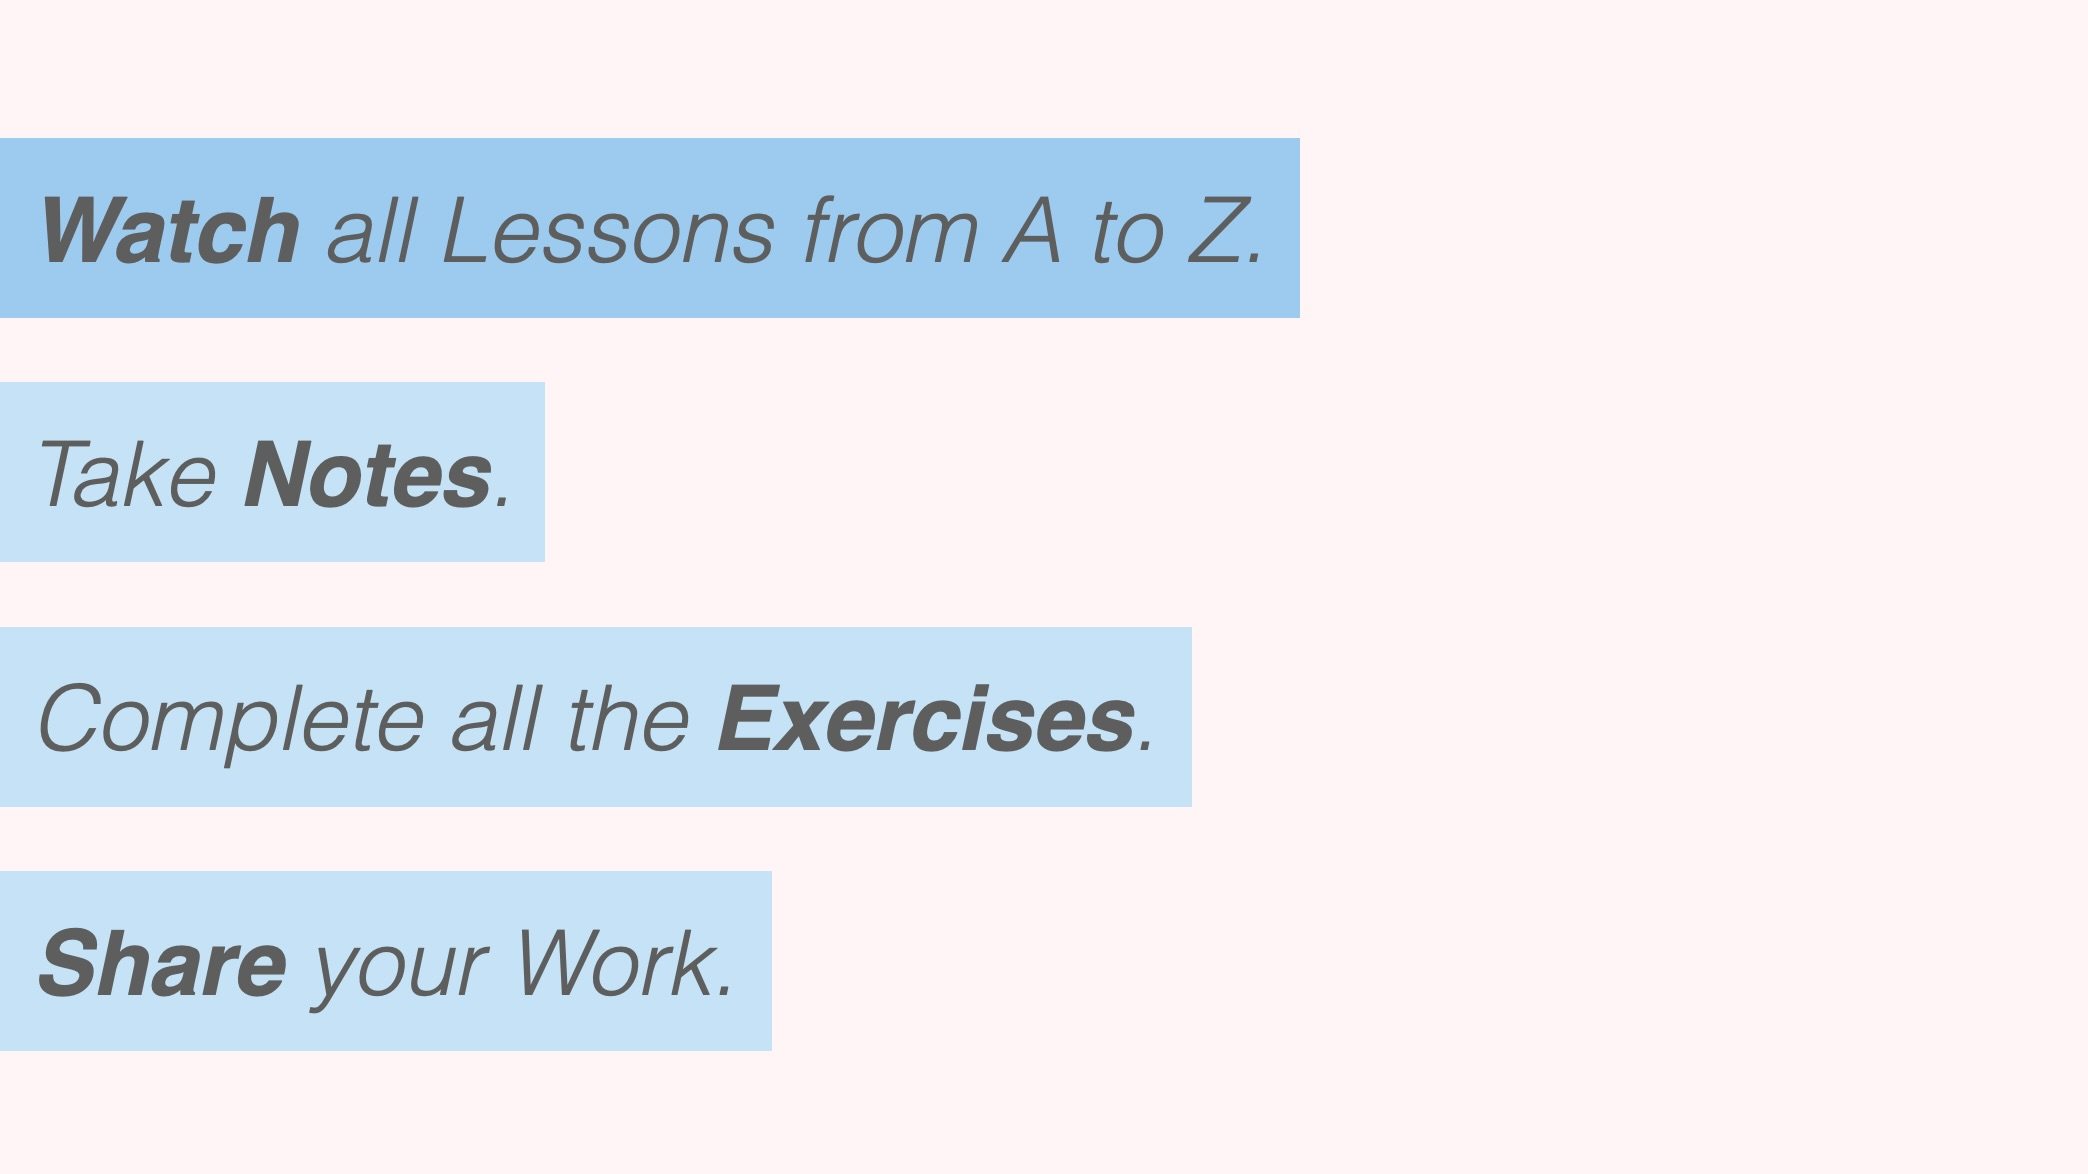
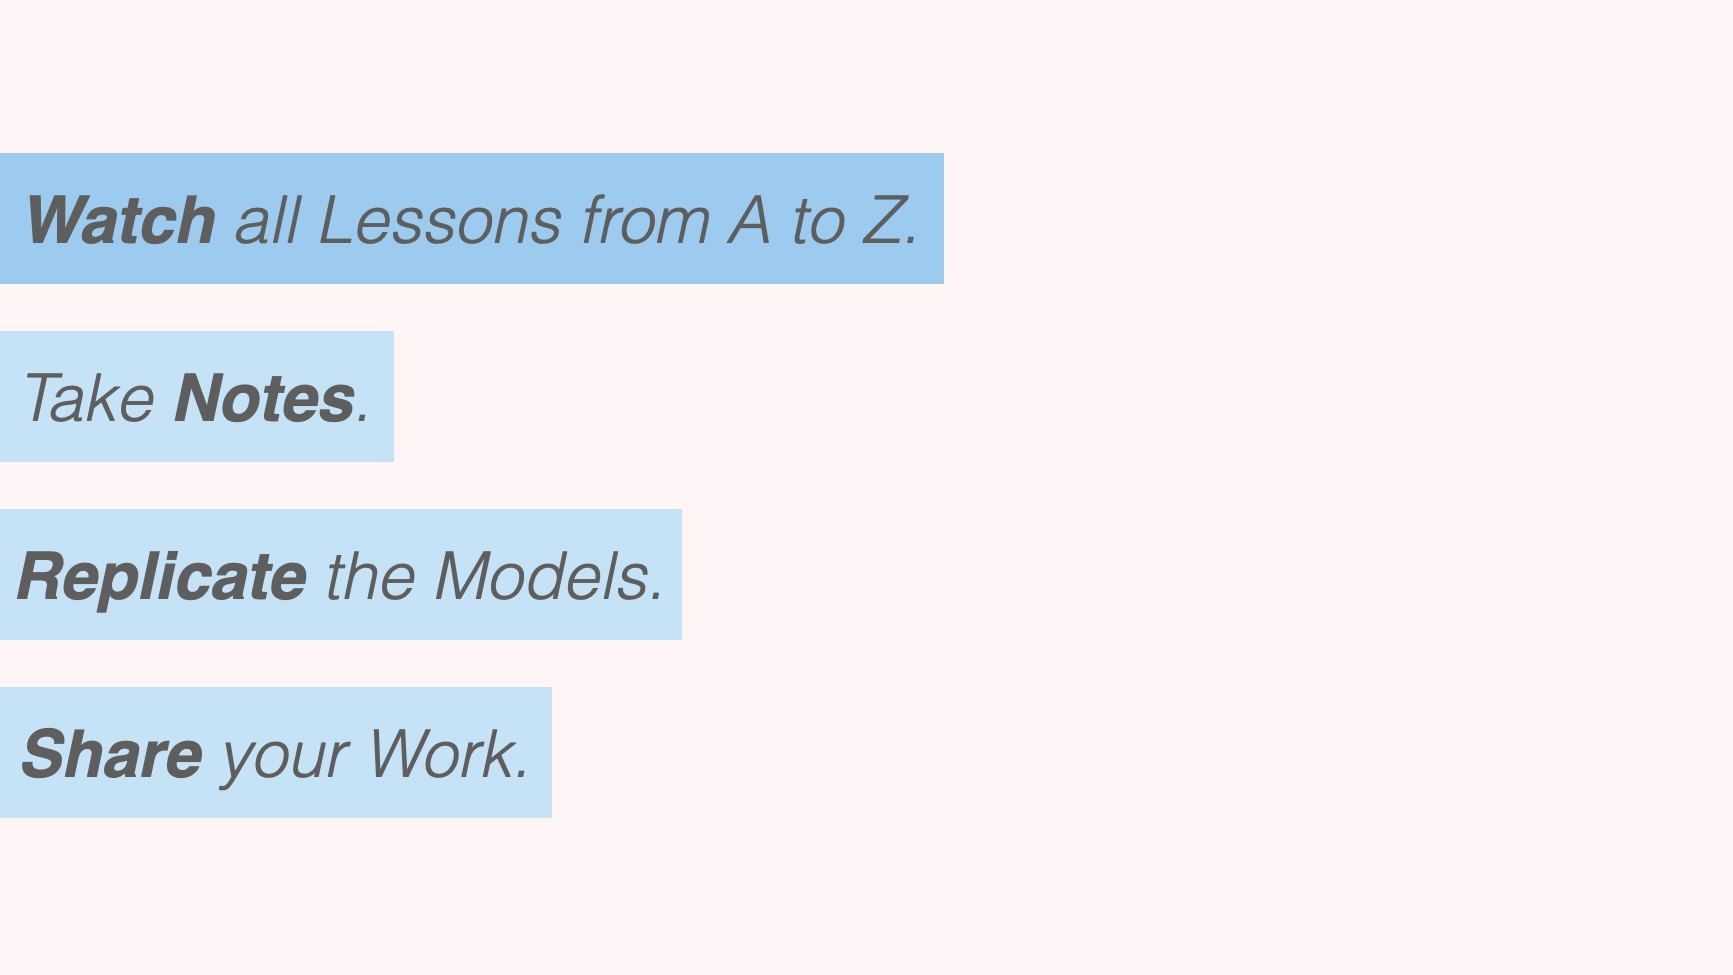
Add cover descriptions and other content modified..

Changed region(s): [[0.0, 0.5231, 0.592, 0.8923], [0.0, 0.0923, 0.6232, 0.4923]]

diff --git a/src/data/covers.ts b/src/data/covers.ts
@@ -61,38 +61,38 @@ export default [
     author: "― Jensen Huang",
     image: "src/assets/naushika.jpg",
     title: "Nausicaä from Nausicaä of the Valley of the Wind (1984) by books_baking_broadway",
-    description: "The left character is a Non-Animated Version Of Studio Ghibli Character - Naushika, and it was generated by an AI model."
+    description: "The image on the left portrays a non-animated, lifelike version of Nausicaä, the Studio Ghibli character from *Nausicaä of the Valley of the Wind* (1984), generated by an AI model. Using advanced computer vision techniques like image synthesis, AI can transform animated characters into realistic forms by learning from vast datasets of real-world images and animation styles. This showcases how AI-driven tools, such as GANs, are able to reinterpret 2D animations into photorealistic depictions, highlighting the potential of AI in expanding the ways we visualize and engage with animated media."
   },
   { id: 8,
     name: "Chapter 8: A Vision Transformer Model",
     quote: "When eyes were first developed in animals, suddenly animal life becomes proactive.",
     author: "― Fei-Fei Li",
     image: "src/assets/patch_embedding.jpeg",
-    title: "Nausicaä from Nausicaä of the Valley of the Wind (1984) by books_baking_broadway",
-    description: "The left character is a Non-Animated Version Of Studio Ghibli Character - Naushika, and it was generated by an AI model."
+    title: "AN IMAGE IS WORTH 16X16 WORDS",
+    description: "This image illustrates the patch embedding process in a Vision Transformer (ViT) model, which we’ll be constructing in this chapter. As the title suggests, ‘An Image is Worth 16x16 Words,’ we treat the cat image as a series of 16x16 pixel patches, similar to how words are processed in natural language models. These patches are then fed into a Transformer encoder, which learns to recognize patterns and features in the image, enabling the model to understand and classify visual data just like it would with sequential text data."
   },
   { id: 9,
     name: "Chapter 9: The Maths Behind (IV)",
     quote: "If you value intelligence above all other human qualities, you're gonna have a bad time.",
     author: "― Ilya Sutskever",
     image: "src/assets/mha.jpeg",
-    title: "Nausicaä from Nausicaä of the Valley of the Wind (1984) by books_baking_broadway",
-    description: "The left character is a Non-Animated Version Of Studio Ghibli Character - Naushika, and it was generated by an AI model."
+    title: "Multi-Head Attention",
+    description: "Multi-Head Attention is a core component of the Transformer architecture, and it plays a crucial role in its ability to capture complex relationships within data. Multi-Head Attention provides the model with a more nuanced understanding of the input, making the Transformer architecture powerful for both sequential data (text) and spatial data (images, through Vision Transformers)."
   },
   { id: 10,
     name: "Chapter 10: A Language Translation Model",
     quote: "AI will be the best or worst thing ever for humanity.",
     author: "― Elon Musk",
     image: "src/assets/languages.webp",
-    title: "Nausicaä from Nausicaä of the Valley of the Wind (1984) by books_baking_broadway",
-    description: "The left character is a Non-Animated Version Of Studio Ghibli Character - Naushika, and it was generated by an AI model."
+    title: "Natural Languages",
+    description: "This vibrant image beautifully represents the diversity of human natural languages, showcasing the word “Hello” in many different languages and scripts, such as English, Spanish, Japanese, Arabic, and more. Each language comes with its unique way of expressing common ideas, reflecting cultural and linguistic variety across the globe. The image highlights the universality of human communication, while also celebrating the uniqueness of individual languages. As we move into building language translation models, it’s this rich diversity that we aim to bridge, enabling machines to understand and translate between these varied systems of communication, connecting people across linguistic barriers."
   },
   { id: 11,
     name: "Chapter 11: The Maths Behind (V)",
     quote: "ATTENTION IS ALL YOU NEED.",
     author: "― pager in 2017",
     image: "src/assets/llms.jpg",
-    title: "Nausicaä from Nausicaä of the Valley of the Wind (1984) by books_baking_broadway",
-    description: "The left character is a Non-Animated Version Of Studio Ghibli Character - Naushika, and it was generated by an AI model."
+    title: "What are Large Language Models (LLMs)?",
+    description: "Large Language Models (LLMs), like ChatGPT, have transformed the field of natural language processing by enabling machines to generate, understand, and interact using human language at an unprecedented scale. LLMs are trained on massive amounts of text data, allowing them to learn the intricate patterns, grammar, and semantics of languages. At the heart of these models is the Transformer architecture, which is pivotal to their performance. The Transformer’s key innovations, such as self-attention and parallel processing, allow LLMs to capture long-range dependencies, understand context better, and process large volumes of data efficiently. Without the Transformer, modern LLMs would struggle with the complexity and scale of tasks they now perform, from translation and summarization to conversation and creative writing."
   },
 ]

diff --git a/src/data/chapterZero.ts b/src/data/chapterZero.ts
@@ -655,20 +655,20 @@ export default [
             value: "Before starting this training course, it's important to have a basic understanding of Python programming. You'll also need some foundational knowledge in mathematics, including matrix computation, calculus, probability, and statistics."
           },
           { id: 1, 
-            title: "Watch all lessons from A to Z",
+            title: "Watch all Lessons from A to Z",
             value: "First and foremost, I recommend watching the entire course from beginning to end, even if you're already familiar with PyTorch. Throughout the course, I'll be sharing numerous tips and tricks to deepen your understanding, and I don't want you to miss out on any of them. I've designed the course to be concise and focused, so you won't waste time on repetitive or irrelevant content. Make sure to watch every lesson."
           },
           { 
             id: 2, 
-            title: "Take notes",
+            title: "Take Notes",
             value: "While watching the lessons, I encourage you to take notes. Even if you prefer not to write extensively, jotting down key concepts and ideas can be very helpful. I strongly believe that writing things down aids in retaining new information. After each lesson, review your notes and practice the steps I demonstrated. This is the same approach I use to learn new material."
           },
           { id: 3, 
-            title: "Complete all exercises",
-            value: "I've carefully designed exercises to reinforce the concepts covered in each lesson. Completing these exercises is crucial for understanding and retaining what you've learned. The more you practice, the more proficient you'll become in the field of machine learning."
+            title: "Replicate the Models",
+            value: "Replicating models helps solidify the entire workflow, from building to improving, through hands-on practice. Once mastered, this skill not only enhances problem-solving but also builds confidence in replicating and implementing new models from research papers."
           },
           { id: 4, 
-            title: "Share your work",
+            title: "Share your Work",
             value: "The more you share, the more you learn. To gain a deeper understanding of this course, try building your own project based on what you've learned and share it with others. Sharing your work allows others to provide feedback, which can be invaluable for improving your skills and creating better projects in the future. Be open to constructive criticism, as it will help you grow. Remember, I believe you can do even better than I have!"
           },
         ],

diff --git a/src/data/sectionList.ts b/src/data/sectionList.ts
@@ -271,9 +271,9 @@ export default [
     items: [
       { id: 1, name: "i. Prepare Data", link: "prepare-data" },
       { id: 2, name: "ii. Build a Model", link: "build-a-model" },
-      { id: 3, name: "iii. Train and Test a Model", link: "train-a-model" },
+      { id: 3, name: "iii. Train a Model", link: "train-a-model" },
       { id: 4, name: "iv. Improve a Model", link: "improve-a-model" },
-      { id: 5, name: "v. Save and Load a Model", link: "save-a-model" },
+      { id: 5, name: "v. Save a Model", link: "save-a-model" },
     ],
     description: [
       { id: 1, 
@@ -290,13 +290,13 @@ export default [
     name: "11. The Maths Behind (V)", 
     link: "/the-maths-behind-five",
     items: [
-      { id: 1, name: "- Word Embedding", link: "word-embedding" },
+      { id: 1, name: "- Word Embedding and Word2Vec", link: "word-embedding" },
       { id: 2, name: "- Recurrent Neural Network (RNN)", link: "rnn"},
       { id: 3, name: "- Long Short-Term Memory (LSTM)", link: "lstm"},
       { id: 4, name: "- Transformer", link: "transformer" },
-      { id: 5, name: "- Masked Multi-Head Attention", link: "masked-multi-head-attention" },
-      { id: 6, name: "- Transformer Encoder", link: "transformer-encoder" },
-      { id: 7, name: "- Transformer Decoder", link: "transformer-decoder" },
+      { id: 5, name: "-- Masked Multi-Head Attention", link: "masked-multi-head-attention" },
+      { id: 6, name: "-- Transformer Encoder", link: "transformer-encoder" },
+      { id: 7, name: "-- Transformer Decoder", link: "transformer-decoder" },
     ],
     description: [
       { id: 1, 

diff --git a/src/components/FootLinks.tsx b/src/components/FootLinks.tsx
@@ -4,8 +4,8 @@ import { Link } from 'react-router-dom'
 interface Props {
   l: string,
   ll: string,
-  r: string,
-  rl: string
+  r?: string,
+  rl?: string
 }
 
 const FootLinks = ({ l, ll, r, rl }: Props) => {
@@ -22,14 +22,14 @@ const FootLinks = ({ l, ll, r, rl }: Props) => {
           </Text>
         </Link>
       </Box>
-      <Box textAlign='right' ml='auto'>
-        <Link to={rl}>
+      {r && <Box textAlign='right' ml='auto'>
+        <Link to={rl!}>
           <Text color='gray' fontSize='sm'>Next Chapter</Text>
           <Text as='b' fontSize={fontSizeDynamic} color='gray.500' _hover={hoverStyle}>
-            {r}
+            {r!}
           </Text>
         </Link>
-      </Box>
+      </Box>}
     </HStack>
   )
 }

diff --git a/src/pages/AboutShape.tsx b/src/pages/AboutShape.tsx
@@ -6,7 +6,7 @@ import sectionList from '../data/sectionList'
 const AboutShape = () => {
   const intro = introduce[7]
   const { name: l, link: ll } = sectionList[13]
-  const { name: r, link: rl } = sectionList[0]
+  // const { name: r, link: rl } = sectionList[0]
 
   return (
     <Container maxW='1200px' px='10px'>
@@ -21,7 +21,7 @@ const AboutShape = () => {
       <Flex align='center' h='80px'>
         <Divider variant='thick'/>
       </Flex>
-      <FootLinks l={l} ll={ll} r={r} rl={rl}/>
+      <FootLinks l={l} ll={ll}/>
     </Container>
   )
 }

diff --git a/index.html b/index.html
@@ -2,7 +2,7 @@
 <html lang="en">
   <head>
     <meta charset="UTF-8" />
-    <link rel="icon" type="image/svg+xml" href="" />
+    <link rel="icon" type="image/svg+xml" href="s-outline.svg" />
     <meta name="viewport" content="width=device-width, initial-scale=1.0" />
     <title>AI models with PyTorch</title>
   </head>
